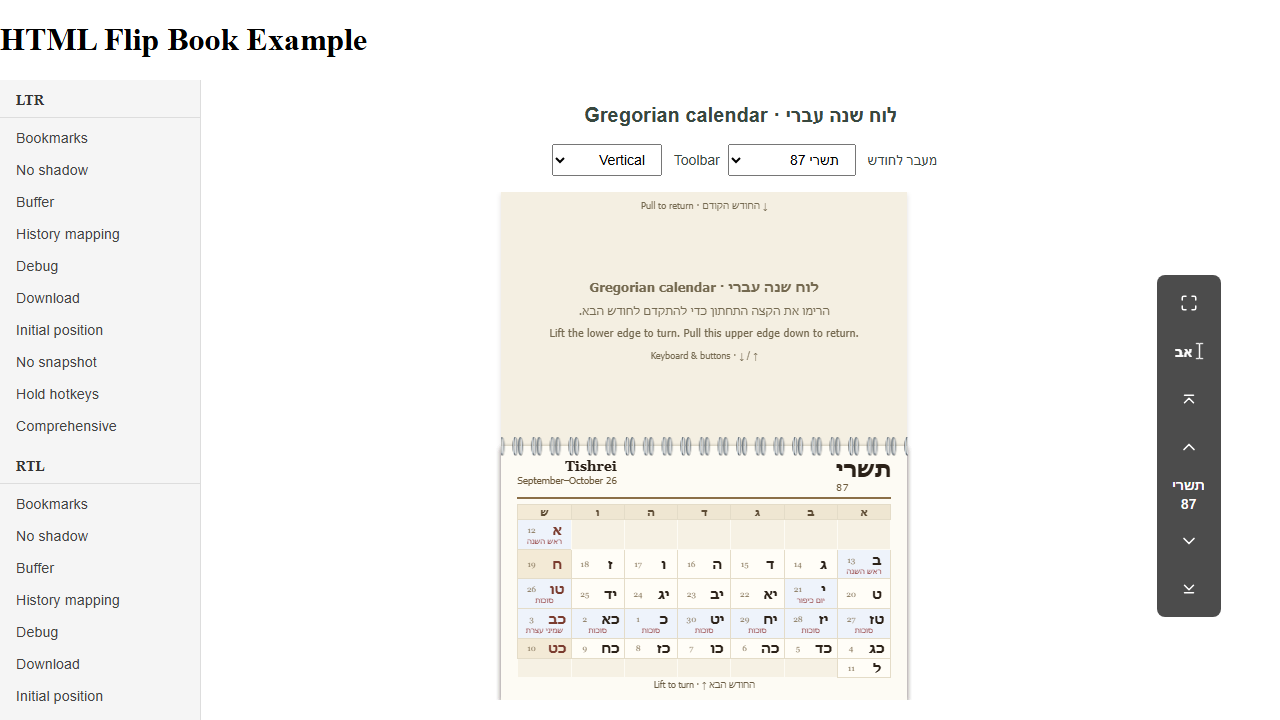
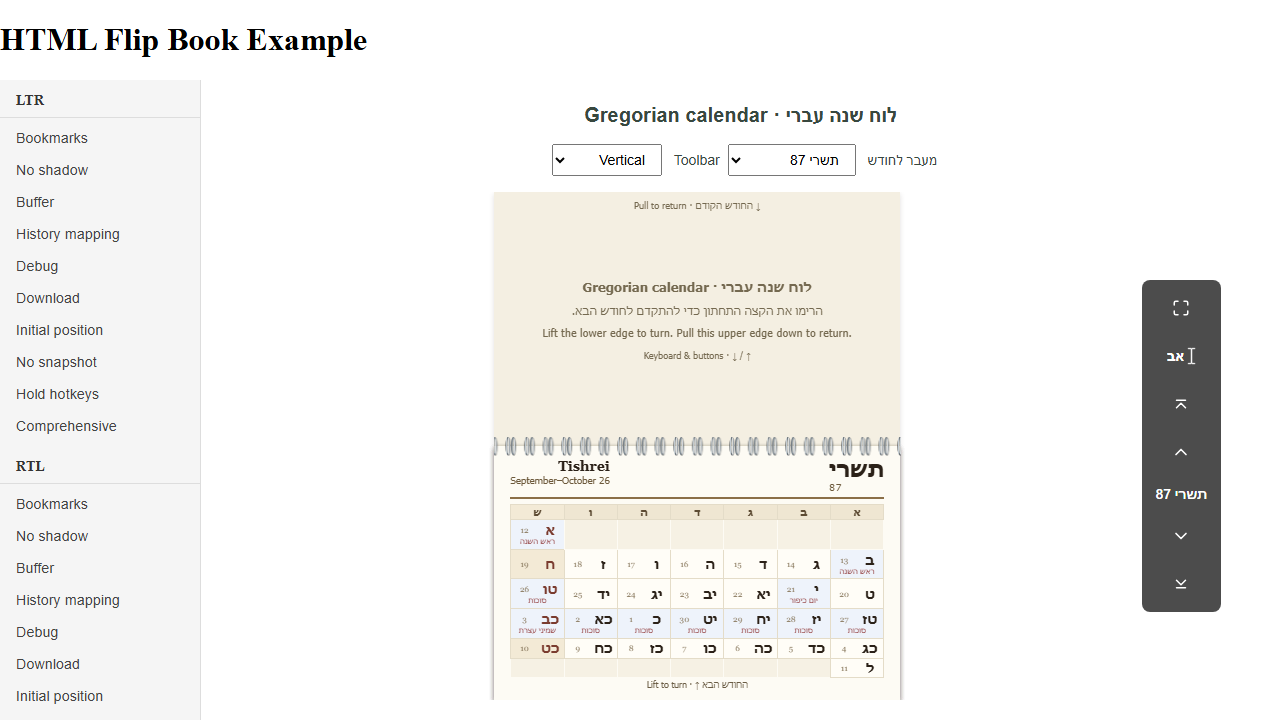
Reserve stable bounded title space in vertical toolbars

diff --git a/react/src/toolbar/PageIndicator.tsx b/react/src/toolbar/PageIndicator.tsx
@@ -1,8 +1,48 @@
 import type React from "react";
-import { useCallback, useEffect, useRef, useState } from "react";
+import { useCallback, useEffect, useLayoutEffect, useMemo, useRef, useState } from "react";
 import { useToolbar } from "./ToolbarContext";
 
 type PageIndicatorMode = "semantic" | "index";
+
+const useIndicatorLayoutEffect = typeof window === "undefined" ? useEffect : useLayoutEffect;
+
+function indicatorLabel(left: string, right: string, placeholder: string, total?: string): string {
+	const range = !left
+		? right || placeholder
+		: !right || left === right
+			? left
+			: `${left} - ${right}`;
+	return total === undefined ? range : `${range} / ${total}`;
+}
+
+/** Measure all possible labels once before paint, never the current title alone. */
+function useIndicatorWidth(enabled: boolean, labels: readonly string[], editable: boolean) {
+	const elementRef = useRef<HTMLElement | null>(null);
+	const setElement = useCallback((element: HTMLElement | null) => {
+		elementRef.current = element;
+	}, []);
+	useIndicatorLayoutEffect(() => {
+		const element = elementRef.current;
+		if (!enabled || !element) return;
+		const context = element.ownerDocument.createElement("canvas").getContext("2d");
+		if (!context) return;
+		const measure = () => {
+			context.font = getComputedStyle(element).font;
+			let width = 0;
+			for (const label of labels) width = Math.max(width, context.measureText(label).width);
+			element.style.setProperty("--flipbook-indicator-text-width", `${Math.ceil(width)}px`);
+		};
+		measure();
+		const fonts = element.ownerDocument.fonts;
+		fonts.addEventListener("loadingdone", measure);
+		window.addEventListener("resize", measure);
+		return () => {
+			fonts.removeEventListener("loadingdone", measure);
+			window.removeEventListener("resize", measure);
+		};
+	}, [enabled, labels, editable]);
+	return setElement;
+}
 
 interface PageIndicatorProps {
 	/**
@@ -41,7 +81,8 @@ const PageIndicator: React.FC<PageIndicatorProps> = ({
 	ariaLabel = "Go to page",
 	maxLength = 10,
 }) => {
-	const { flipBookRef, pageSemantics, direction, currentPage, totalPages, of } = useToolbar();
+	const { flipBookRef, pageSemantics, direction, currentPage, totalPages, of, orientation } =
+		useToolbar();
 
 	// Determine effective mode
 	const mode: PageIndicatorMode = modeProp ?? (pageSemantics ? "semantic" : "index");
@@ -73,42 +114,33 @@ const PageIndicator: React.FC<PageIndicatorProps> = ({
 	const leftName = getPageName(leftPageIndex);
 	const rightName = rightPageIndex != null ? getPageName(rightPageIndex) : "";
 
-	// "Of" comes from the book (via context); default is total pages count
-	const getTotalDisplay = useCallback((): string => String(of), [of]);
-
-	// Build display text for the range (always left physical page then right, e.g. י"א - י"ב)
-	const buildDisplayText = useCallback((): string => {
-		const firstName = leftName;
-		const secondName = rightName;
-
-		let rangeText: string;
-		if (!firstName && !secondName) {
-			// Both empty (e.g., cover pages)
-			rangeText = placeholder;
-		} else if (!firstName) {
-			// Only second has a name
-			rangeText = secondName;
-		} else if (!secondName) {
-			// Only first has a name
-			rangeText = firstName;
-		} else if (firstName === secondName) {
-			// Same name on both pages - show scalar
-			rangeText = firstName;
-		} else {
-			// Different names - show range
-			rangeText = `${firstName} - ${secondName}`;
+	const labels = useMemo(() => {
+		if (orientation !== "vertical") return [];
+		const total = showTotal ? String(of) : undefined;
+		const labels = new Set([indicatorLabel("", "", placeholder, total)]);
+		for (let index = 0; index < totalPages; index++) {
+			labels.add(
+				indicatorLabel(
+					getPageName(index),
+					index + 1 < totalPages ? getPageName(index + 1) : "",
+					placeholder,
+					total,
+				),
+			);
 		}
-
-		if (showTotal) {
-			return `${rangeText} / ${getTotalDisplay()}`;
-		}
-		return rangeText;
-	}, [leftName, rightName, placeholder, showTotal, getTotalDisplay]);
+		return [...labels];
+	}, [orientation, totalPages, getPageName, placeholder, showTotal, of]);
+	const setIndicatorElement = useIndicatorWidth(orientation === "vertical", labels, editable);
 
 	// The primary semantic name for editing (use left page in RTL reading order)
 	const primarySemanticName = direction === "rtl" ? rightName || leftName : leftName || rightName;
 
-	const displayText = buildDisplayText();
+	const displayText = indicatorLabel(
+		leftName,
+		rightName,
+		placeholder,
+		showTotal ? String(of) : undefined,
+	);
 
 	// Sync input value when page changes and not editing.
 	// After Enter navigation, justNavigatedRef prevents flashing the stale value;
@@ -179,11 +211,17 @@ const PageIndicator: React.FC<PageIndicatorProps> = ({
 	if (!editable) {
 		return (
 			<span
+				ref={setIndicatorElement}
 				className={`flipbook-toolbar-indicator ${className ?? ""}`.trim()}
+				title={displayText}
 				aria-live="polite"
 				aria-atomic="true"
 			>
-				{displayText}
+				{orientation === "vertical" ? (
+					<span className="flipbook-toolbar-indicator-label">{displayText}</span>
+				) : (
+					displayText
+				)}
 			</span>
 		);
 	}
@@ -196,9 +234,11 @@ const PageIndicator: React.FC<PageIndicatorProps> = ({
 	const editingClass = isEditing ? "flipbook-toolbar-indicator--editing" : "";
 	return (
 		<input
+			ref={setIndicatorElement}
 			type="text"
 			className={`flipbook-toolbar-indicator ${editingClass} ${className ?? ""}`.trim()}
 			value={inputValue}
+			title={displayText}
 			onFocus={handleFocus}
 			onBlur={handleBlur}
 			onKeyDown={handleKeyDown}

diff --git a/e2e/vertical-toolbar.spec.ts b/e2e/vertical-toolbar.spec.ts
@@ -96,3 +96,57 @@ for (const direction of ["ltr", "rtl"]) {
 		await expect(page.getByRole("combobox", { name: "Toolbar layout" })).toHaveCount(0);
 	});
 }
+
+test("reserves a stable title slot before visiting cover, month and end labels", async ({
+	page,
+}, testInfo) => {
+	await page.goto("/?example=vertical-calendar");
+	await page.getByRole("combobox", { name: "Toolbar layout" }).selectOption("vertical");
+	const toolbar = page.getByRole("toolbar");
+	const indicator = toolbar.locator(".flipbook-toolbar-indicator");
+	const initial = await toolbar.boundingBox();
+	const months = page.getByRole("combobox", { name: "Go to month" });
+	const options = await months.locator("option").evaluateAll((options) =>
+		options.map((option) => ({
+			value: (option as HTMLOptionElement).value,
+			text: option.textContent.trim(),
+		})),
+	);
+	for (const option of options) {
+		await months.selectOption(option.value);
+		const text = option.value === "-1" ? "כריכה" : option.value === "25" ? "סיום" : option.text;
+		await expect(indicator).toHaveText(text);
+		const bounds = await toolbar.boundingBox();
+		expect(bounds.width).toBeCloseTo(initial.width, 1);
+		expect(bounds.height).toBeCloseTo(initial.height, 1);
+		if (option.value === "-1")
+			await toolbar.screenshot({
+				path: `docs/images/vertical-calendar/toolbar-stable-cover-${testInfo.project.name}.png`,
+			});
+	}
+	await months.selectOption("0");
+	await expect(indicator).toHaveText("תשרי 87");
+	await toolbar.screenshot({
+		path: `docs/images/vertical-calendar/toolbar-stable-title-${testInfo.project.name}.png`,
+	});
+});
+
+test("caps long title space with ellipsis and keeps the full label available", async ({ page }) => {
+	await page.goto("/?example=vertical-calendar");
+	await page.getByRole("combobox", { name: "Toolbar layout" }).selectOption("vertical");
+	const toolbar = page.getByRole("toolbar");
+	await toolbar.evaluate((element) =>
+		(element as HTMLElement).style.setProperty("--flipbook-indicator-max-width", "28px"),
+	);
+	const indicator = toolbar.locator(".flipbook-toolbar-indicator");
+	await expect(indicator).toHaveAttribute("title", "תשרי 87");
+	const label = indicator.locator(".flipbook-toolbar-indicator-label");
+	await expect(label).toHaveCSS("text-overflow", "ellipsis");
+	await expect(label).toHaveCSS("white-space", "nowrap");
+	const metrics = await label.evaluate((element) => ({
+		width: element.clientWidth,
+		content: element.scrollWidth,
+	}));
+	expect(metrics.content).toBeGreaterThan(metrics.width);
+	await expect(indicator).toHaveText("תשרי 87");
+});

diff --git a/react/src/toolbar/Toolbar.css b/react/src/toolbar/Toolbar.css
@@ -67,14 +67,10 @@
 
 .flipbook-toolbar--vertical {
 	flex-direction: column;
-	width: 64px;
+	width: max-content;
+	min-width: 64px;
 	min-height: 0;
 	padding: 8px;
-}
-
-.flipbook-toolbar--vertical .flipbook-toolbar-indicator {
-	max-width: 100%;
-	white-space: normal;
 }
 
 .flipbook-toolbar--vertical .flipbook-toolbar-start,
@@ -214,6 +210,27 @@ input.flipbook-toolbar-indicator--editing {
 input.flipbook-toolbar-indicator:focus {
 	outline: 2px solid currentColor;
 	outline-offset: 2px;
+}
+
+/* Reserve the widest title up front, with a bounded single-line slot. */
+.flipbook-toolbar--vertical .flipbook-toolbar-indicator {
+	box-sizing: border-box;
+	width: min(
+		calc(var(--flipbook-indicator-text-width, 64px) + 16px),
+		var(--flipbook-indicator-max-width, 8ch)
+	);
+	height: 28px;
+	flex: 0 0 auto;
+	white-space: nowrap;
+	text-overflow: ellipsis;
+}
+
+.flipbook-toolbar-indicator-label {
+	display: block;
+	min-width: 0;
+	overflow: hidden;
+	white-space: nowrap;
+	text-overflow: ellipsis;
 }
 
 .visually-hidden {

diff --git a/react/src/toolbar/ToolbarContext.tsx b/react/src/toolbar/ToolbarContext.tsx
@@ -6,6 +6,8 @@ import type { Locale } from "../i18n";
 interface ToolbarContextValue {
 	flipBookRef: React.RefObject<FlipBookHandle | null>;
 	direction: "ltr" | "rtl";
+	/** Effective control layout. Older custom providers default to horizontal. */
+	orientation?: "horizontal" | "vertical";
 	/** Locale for UI strings (toolbar, download menu). Defaults to en-US. */
 	locale: Locale;
 	pageSemantics?: PageSemantics;

diff --git a/react/src/toolbar/Toolbar.tsx b/react/src/toolbar/Toolbar.tsx
@@ -125,6 +125,7 @@ const Toolbar: React.FC<ToolbarProps> = ({
 			value={{
 				flipBookRef,
 				direction,
+				orientation: layout,
 				locale,
 				pageSemantics,
 				currentPage,

diff --git a/.github/tool-registry.md b/.github/tool-registry.md
@@ -109,3 +109,12 @@ Each entry should include:
 - Discover month starts and leap months from the runtime's actual fields. Treat month-name strings as opaque identifiers; the demo's month names are separate presentation data. [Unicode's calendar data](https://unicode.org/reports/tr35/tr35-dates.html#Calendar_Elements) documents calendar-specific month naming.
 - Index civil days in UTC and construct local dates from their civil fields. Dividing elapsed local hours by 24 would make clock changes affect date indexing.
 - The previous demo conversion file claimed its Hebcal port was MIT-licensed, but [upstream declares GPL-2.0-or-later](https://github.com/hebcal/hdate-js/blob/main/package.json). The port was replaced with platform calls; no copied calendar algorithm, package, or network service remains.
+
+## Canvas text measurement for stable indicator sizing
+
+**Version**: Platform HTML Canvas 2D / CSS Font Loading APIs
+**Date**: 2026-11-14
+
+- [Canvas text metrics](https://html.spec.whatwg.org/multipage/canvas.html#dom-context-2d-measuretext-dev) measure text using the context's font. Use the indicator's computed font, measure the complete label set before paint, and memoize that set independently of the current page.
+- Keep the reserved slot bounded with CSS and use single-line ellipsis. The DOM retains the full label for accessibility and a title tooltip.
+- Font changes can change text metrics. [FontFaceSet loading events](https://www.w3.org/TR/css-font-loading-3/#fontfaceset-interface) allow remeasurement after fonts load; resize and font listeners must be removed on cleanup.

diff --git a/docs/guides/examples.md b/docs/guides/examples.md
@@ -125,6 +125,13 @@ above the indicator and downward navigation below it. Place the toolbar beside
 the book using your own container layout. The calendar demo's **Toolbar** selector
 lets you switch layouts without changing the selected month.
 
+The vertical toolbar reserves its title slot from all possible page labels
+before painting, so shorter cover/end names and longer month names do not
+resize the controls. The slot has a fixed single-line height and a default
+maximum width of `8ch`. Override `--flipbook-indicator-max-width` on the toolbar
+to change that cap. Overflow uses an ellipsis; the full label remains in the
+accessible text and native title tooltip.
+
 - The book splits vertically at the binding: the **lower half** is the live
   sheet stack, the **upper half** collects turned sheets.
 - A decorative coil is drawn across the seam via `.flipbook--vertical::before`

diff --git a/CHANGELOG.md b/CHANGELOG.md
@@ -22,6 +22,7 @@ and this project adheres to [Semantic Versioning](https://semver.org/spec/v2.0.0
 
 ### Fixed
 
+- Vertical toolbar titles reserve bounded space for the longest label before navigation, keeping toolbar dimensions stable. Overflow uses ellipsis with the full label available in a tooltip.
 - The vertical binding uses paired wire loops in profile with separate near and far arcs; lifted sheets pass between the wire layers during a turn (#375).
 - The front-wire fallback also scales with the sheet stack, keeping late-month backward turns threaded in retained calendar previews (#375).
 - Calendar conversion now uses native Intl Hebrew-calendar support in place of the copied conversion implementation; clickable dates show local details without an external calendar service (#375).
